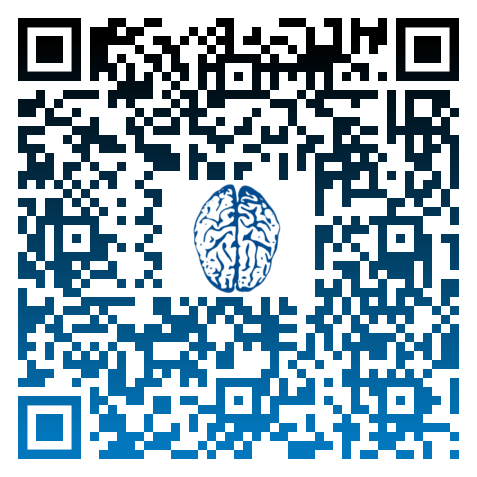
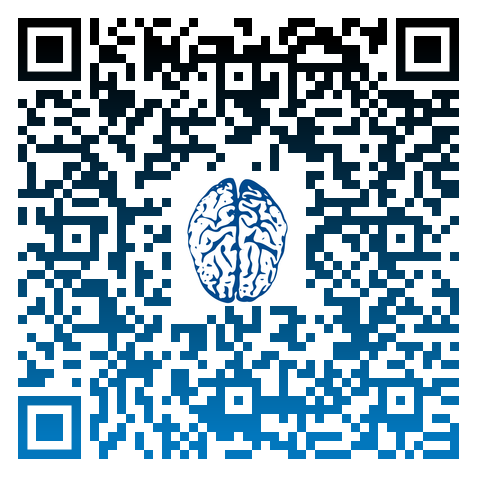
Updated files.

diff --git a/web-brain/indexcz.html b/web-brain/indexcz.html
@@ -102,7 +102,7 @@ Dr. Zdeněk Moravčík, vynálezce silné umělé inteligence&nbsp;&nbsp;
 <p>&nbsp;</p>                                                                                                                                                           
                                                                                                                                                                                                                                                                                                                                               
 <div style="color: 014A8D; font-size: 10pt;">Trvalý odkaz na tuto stránku přes IPFS:                                                                      
-<br>&nbsp;&nbsp;<a class="blue" href="https://storry.tv/ipns/QmfLo46vhy1ZAvGXo7NCYWWYfUpyLgxHCU9AgdxT5Hma3y/indexcz.html" title="Trvalý odkaz na tuto stránku (alternativní odkaz přes IPFS)"><b>/ipns/QmfLo46vhy1ZAvGXo7NCYWWYfUpyLgxHCU9AgdxT5Hma3y\indexcz.html
+<br>&nbsp;&nbsp;<a class="blue" href="https://cf-ipfs.com/ipns/k2k4r8nim6j6yc9lj0h6fg6v8s5btn4kbyrvwtwblwew1xm60r2r3t2u/indexcz.html" title="Trvalý odkaz na tuto stránku (alternativní odkaz přes IPFS)"><b>/ipns/k2k4r8nim6j6yc9lj0h6fg6v8s5btn4kbyrvwtwblwew1xm60r2r3t2u/indexcz.html
 </b></a>                                                                                                                                                                
 <br>(Upozornění: otevírání stránek přes IPFS je obvykle pomalé a nespolehlivé!)      
 <br><br>                                                                                                                                                               
